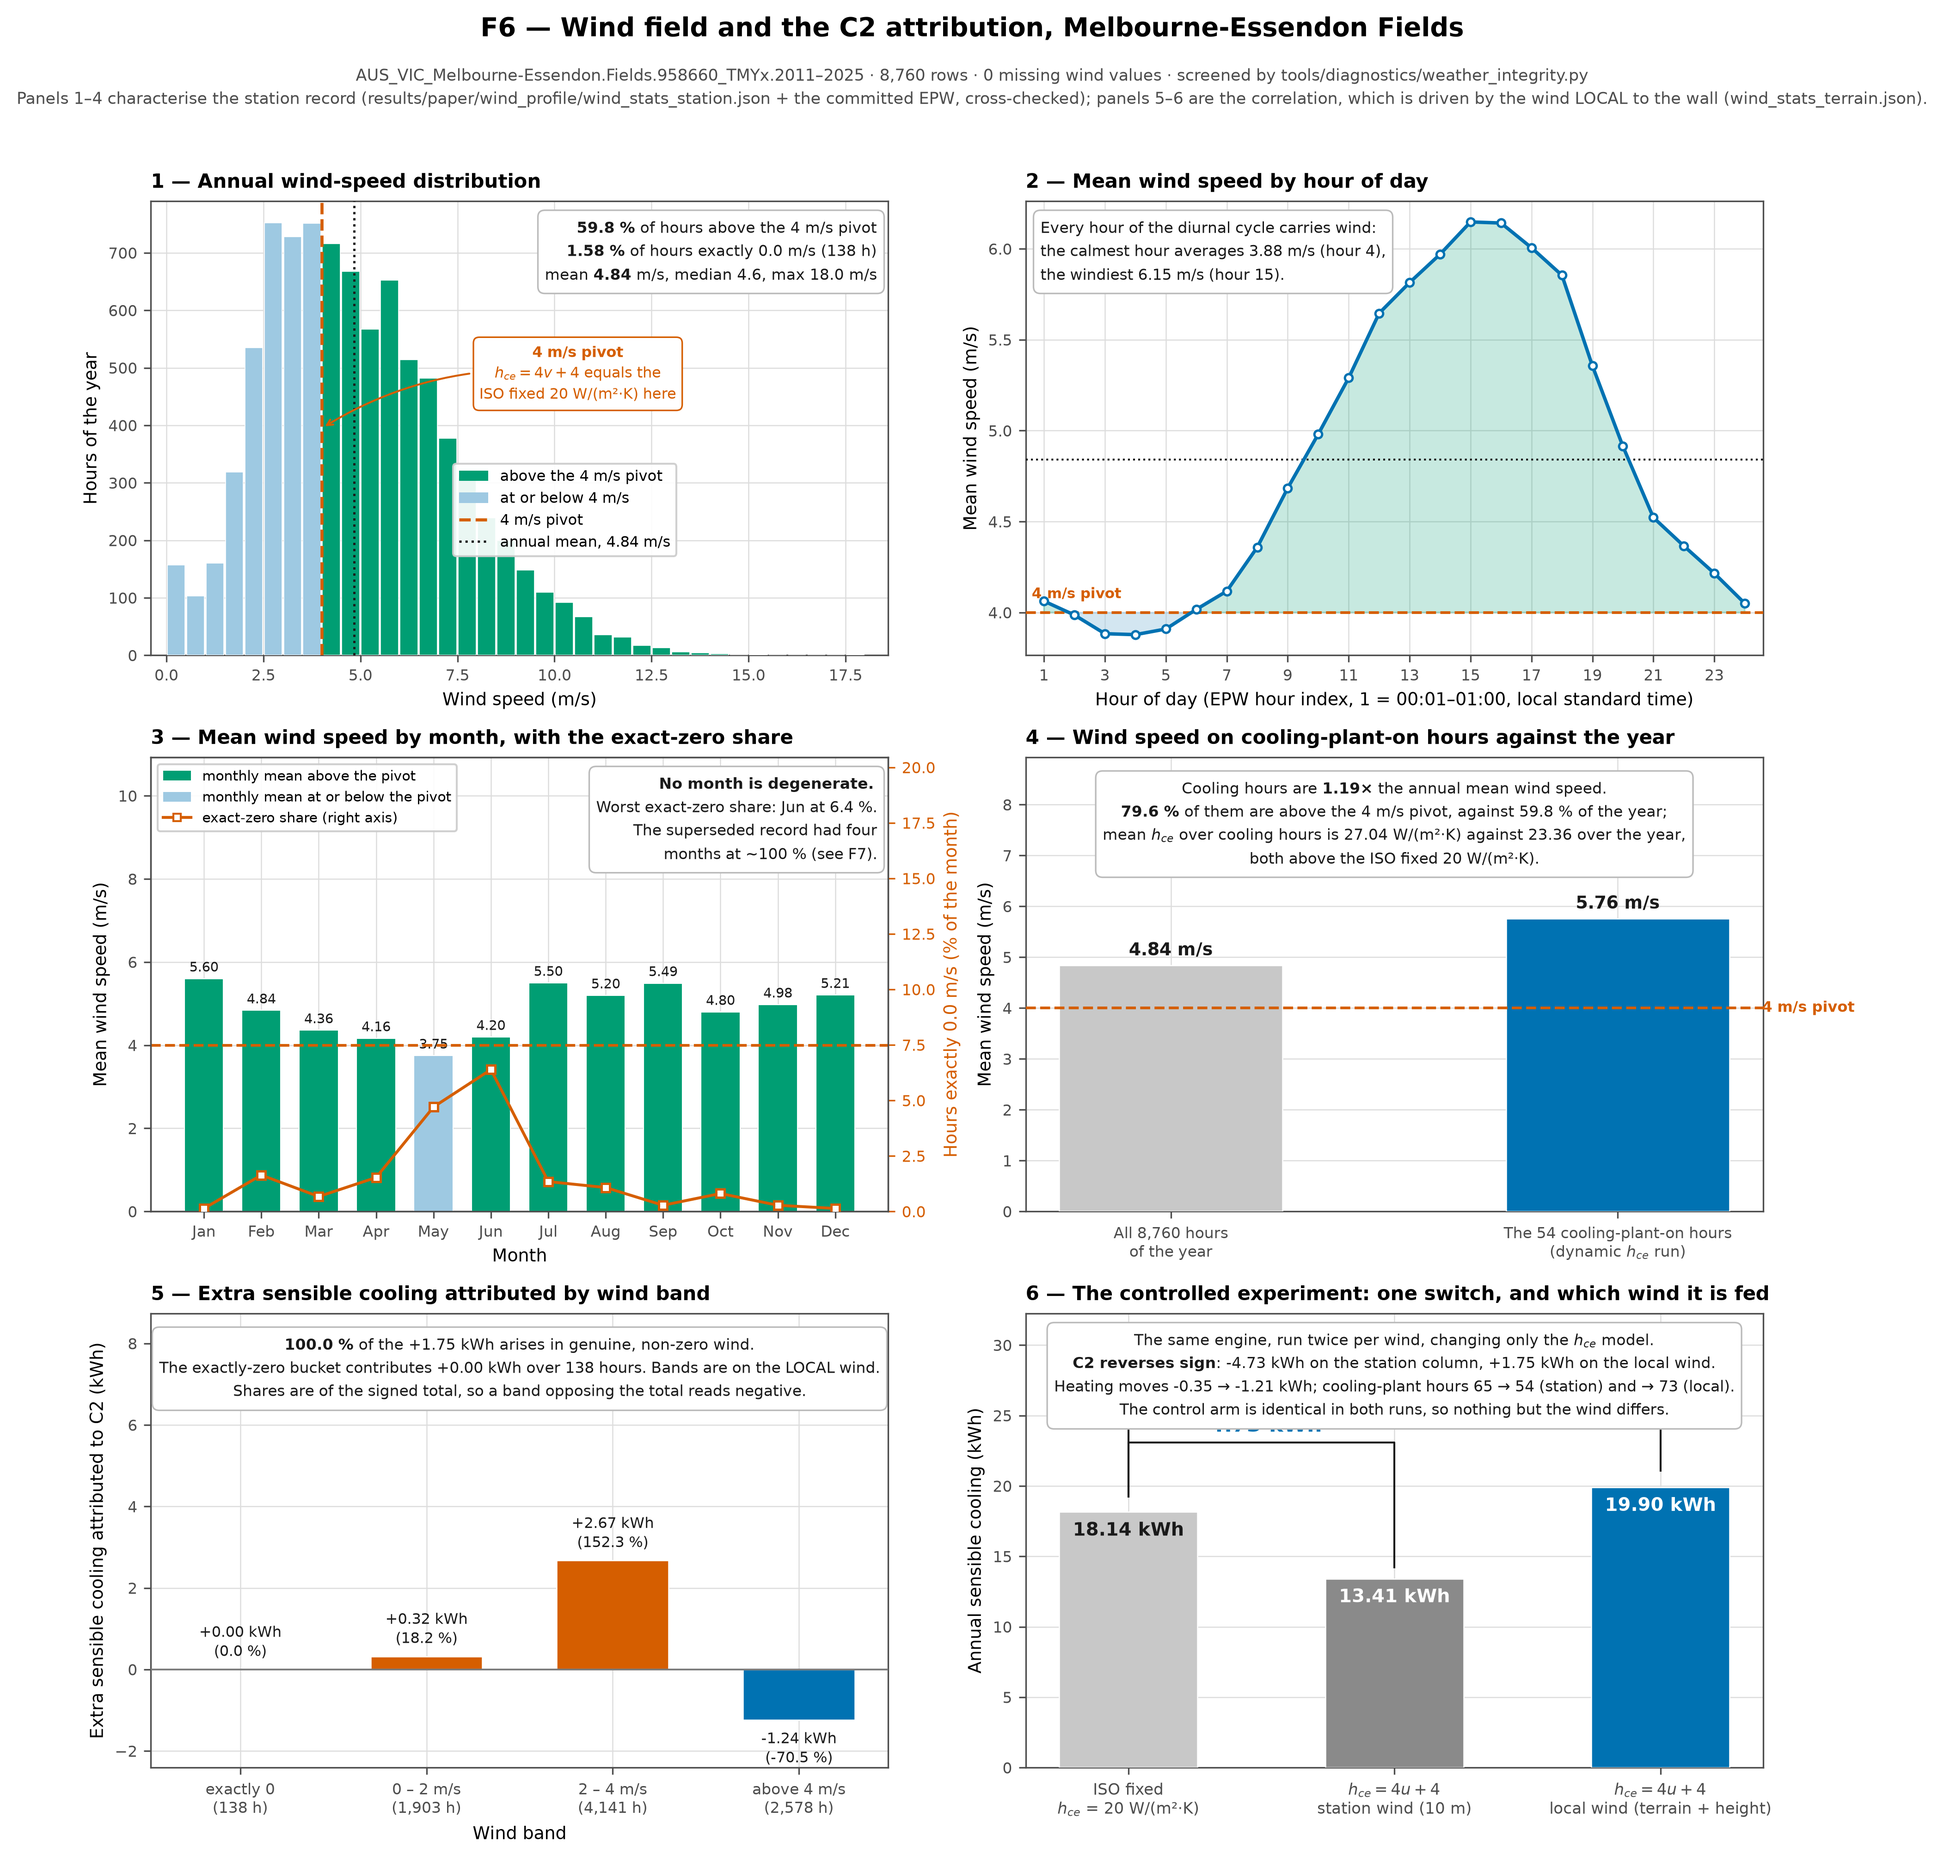
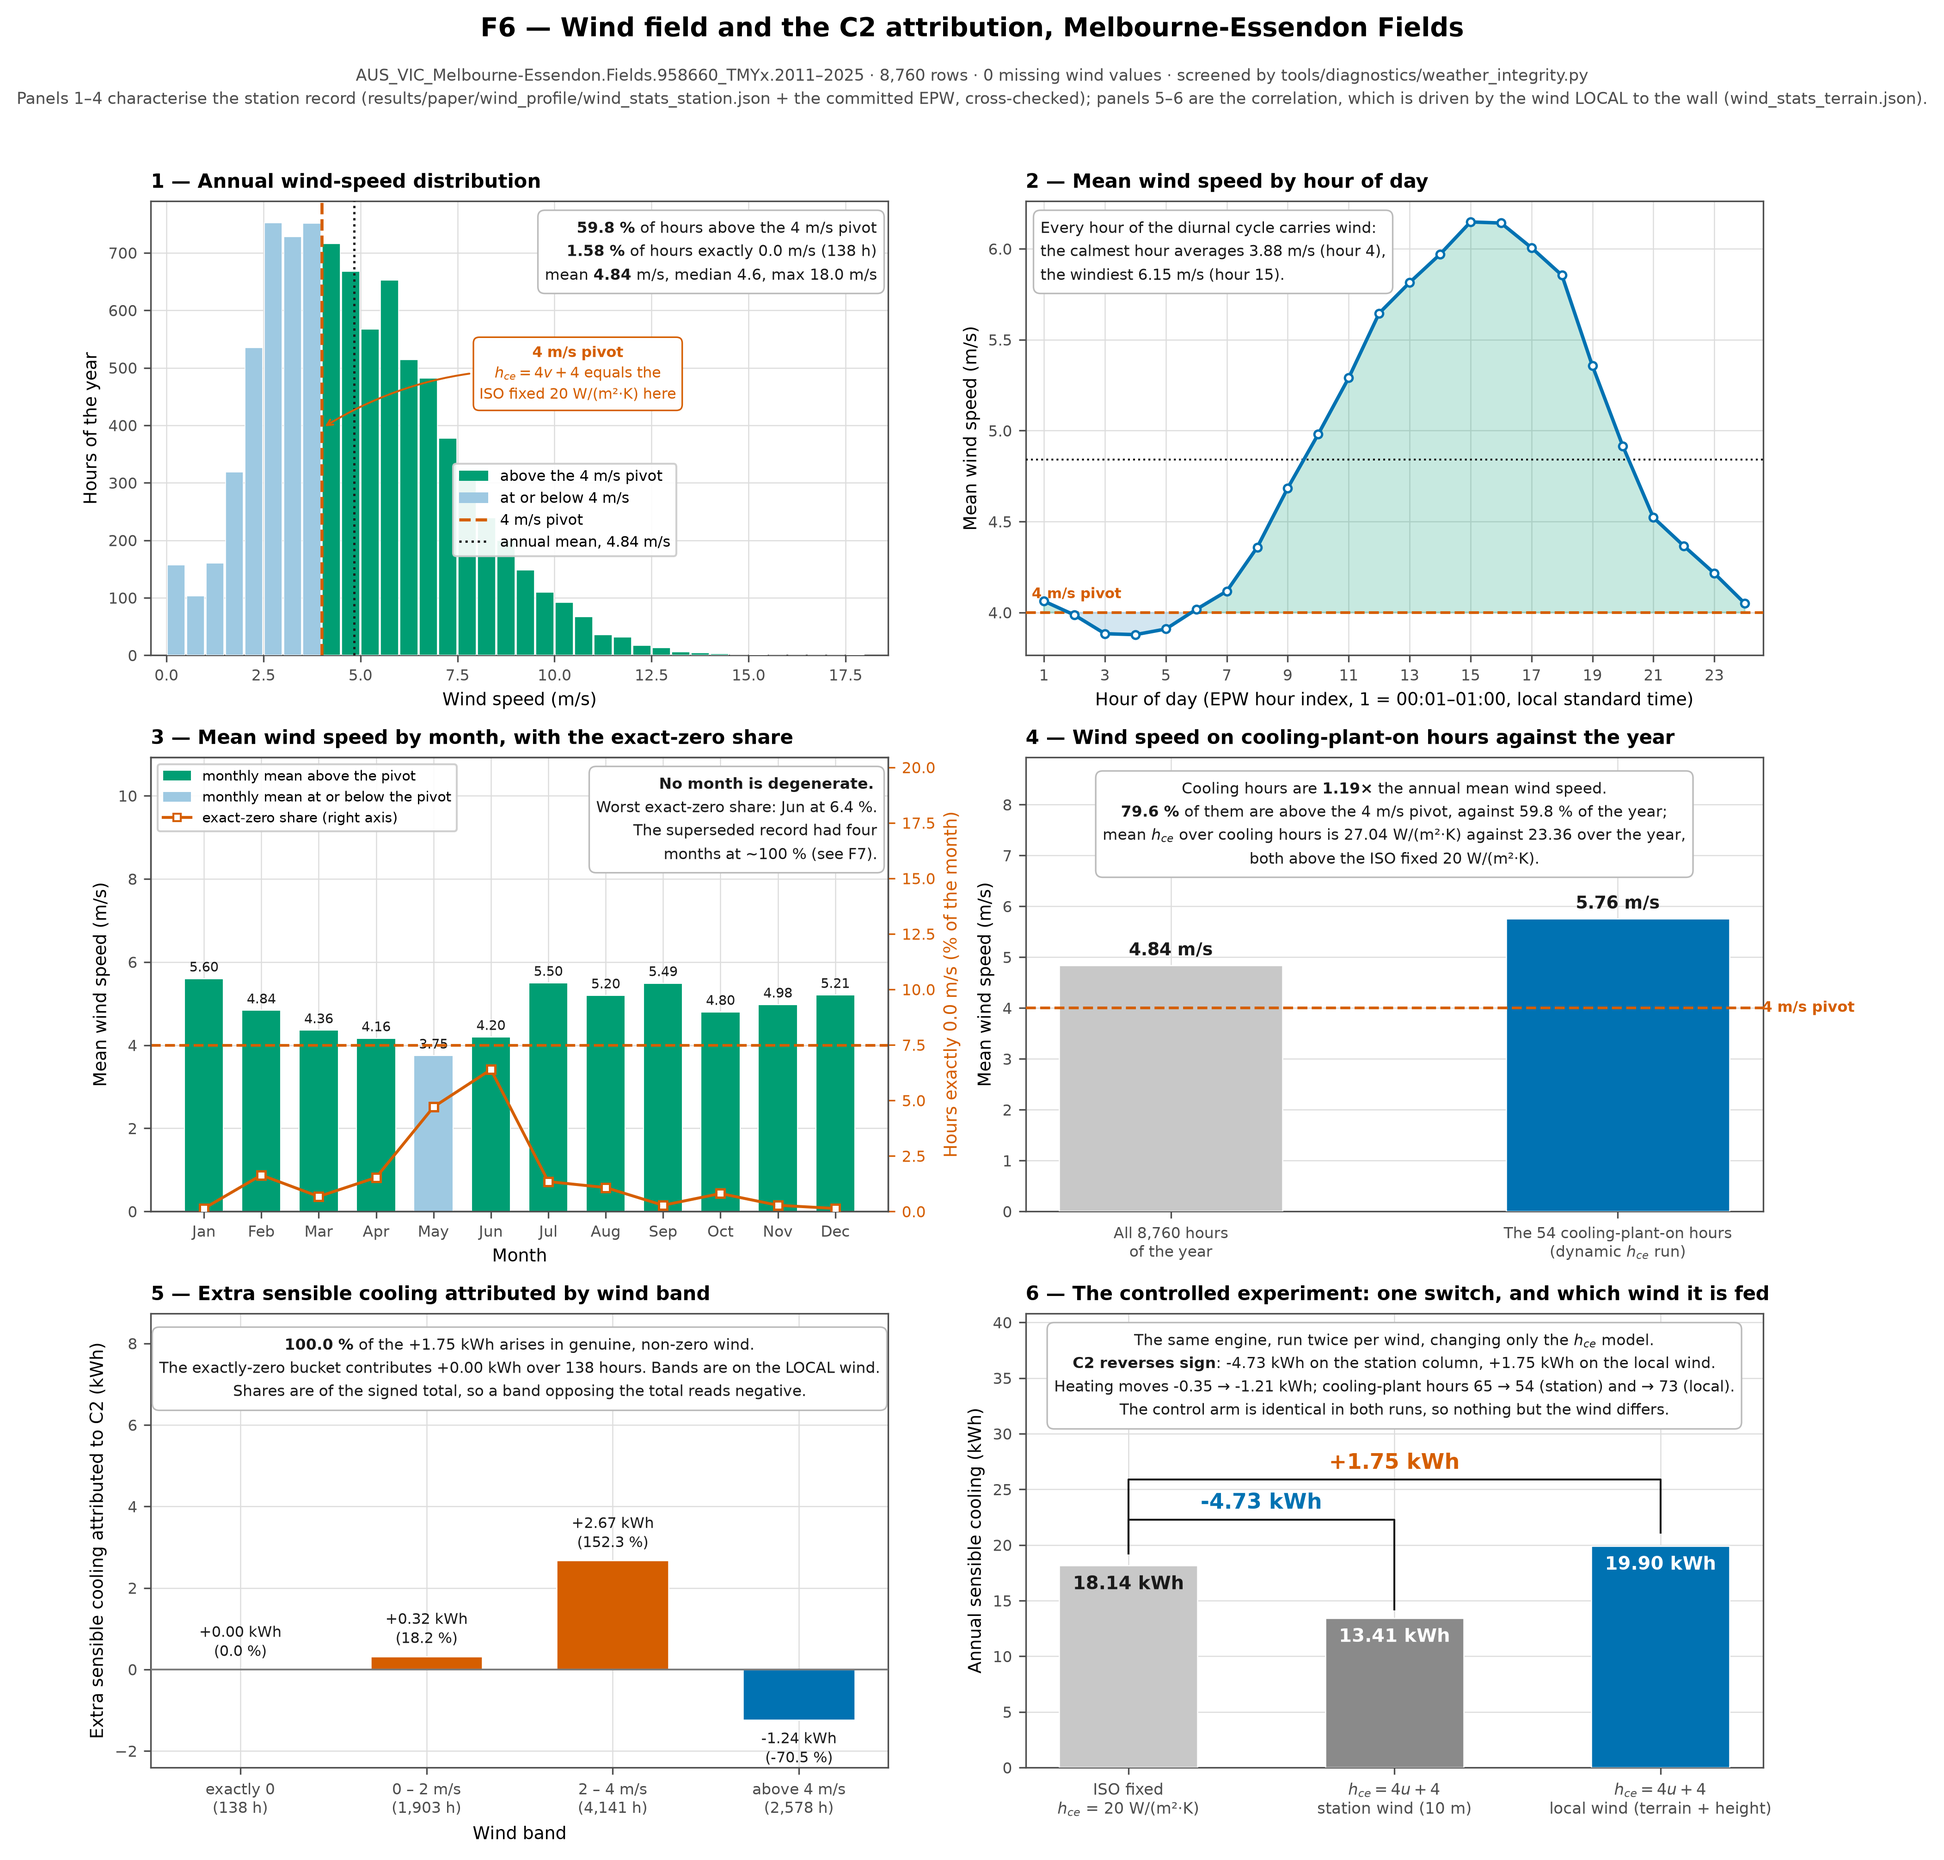
Regenerate the wind verdicts and F6 with the corrected prose
The verdicts pointed at results/au_canonical_essendon for the canonical
numbers, which has not been the canonical location since trajectory_v2. F6's
panel 6 had its upper bracket label running into the annotation box.

Claude-Session: https://claude.ai/code/session_01QtHfHixH27xJYdE7JdoCH9

Changed region(s): [[0.5296, 0.7768, 0.7477, 0.87], [0.81, 0.7768, 0.9034, 0.8389], [0.6854, 0.8389, 0.7788, 0.9011]]

diff --git a/tools/figures/f6_wind_field.py b/tools/figures/f6_wind_field.py
@@ -270,7 +270,9 @@ def build() -> dict:
                         "$h_{ce}=4u+4$\nlocal wind (terrain + height)"],
                        fontsize=8.2)
     p6.set_ylabel("Annual sensible cooling (kWh)")
-    p6.set_ylim(0, max(vals) * 1.62)
+    # Headroom for two stacked brackets AND the annotation box above them. At
+    # 1.62 the upper bracket label ran into the box.
+    p6.set_ylim(0, max(vals) * 2.05)
     p6.set_title("6 — The controlled experiment: one switch, and which wind it is fed",
                  loc="left", pad=7)
     for xi, v in zip(xs, vals):
@@ -279,7 +281,7 @@ def build() -> dict:
                     color=F.INK if xi == 0 else "white")
     # One bracket per arm, against the shared control.
     for xi, dc in ((1, delta_c_station), (2, delta_c)):
-        br = max(vals) * (1.16 if xi == 1 else 1.34)
+        br = max(vals) * (1.12 if xi == 1 else 1.30)
         p6.plot([0, 0, xi, xi],
                 [c_fix * 1.06, br, br, vals[xi] * 1.06], color=F.INK, lw=1.0)
         p6.annotate(f"{dc:+.2f} kWh", (xi / 2.0, br), xytext=(0, 3),

diff --git a/tools/diagnostics/wind_h_ce_diagnostic.py b/tools/diagnostics/wind_h_ce_diagnostic.py
@@ -863,7 +863,7 @@ def write_verdict(s: dict, out_md: Path, png: Path, weather_name: str = "",
         f"than four fabricated months.")
     add("")
     add("The canonical numbers themselves are in "
-        "`results/au_canonical_essendon/comparison.md`; this file does not restate "
+        "`results/paper/trajectory_v2/comparison.md`; this file does not restate "
         "them, so the two cannot drift apart.")
     add("")
     add("Generated by `tools/diagnostics/wind_h_ce_diagnostic.py`.")

diff --git a/results/paper/wind_profile/wind_verdict_terrain.md b/results/paper/wind_profile/wind_verdict_terrain.md
@@ -1,6 +1,6 @@
 # Wind-speed diagnostic on the clean weather file — does the distribution explain the h_ce cooling change?
 
-Weather: `AUS_VIC_Melbourne-Essendon.Fields.958660_TMYx.2011-2025.epw`. This **replaces the earlier verdict (c)**, which was reached on `AUS_VIC_Melbourne.RO.948680_TMYx.2011-2025.epw` and was a finding about that file's wind column rather than about the correlation.
+Weather: `AUS_VIC_Melbourne-Essendon.Fields.958660_TMYx.2011-2025.epw`. The h_ce correlation is driven by the **wind local to the wall** — the station column × 0.6574 for terrain and height.
 
 ## Verdict: **(b)**
 
@@ -66,17 +66,17 @@ The same engine, run twice, changing only the h_ce model (`external_convection_m
 
 Share is of the **signed** total, so a band moving the same way as the total reads positive and a band opposing it reads negative; the four shares sum to 100 %. That is why a share can exceed 100 % when another band pulls the other way.
 
-**100.0 % of the +1.75 kWh comes from hours with real, non-zero wind**, and the above-pivot band alone carries -1.24 kWh (-70.5 %) over 2,578 hours. The exactly-zero bucket — the entire content of the earlier finding — is now 138 hours and +0.00 kWh, 0.0 % of the total.
+**100.0 % of the +1.75 kWh comes from hours with real, non-zero wind**, and the above-pivot band alone carries -1.24 kWh (-70.5 %) over 2,578 hours. The exactly-zero bucket is now 138 hours and +0.00 kWh, 0.0 % of the total.
 
 ## The mechanism
 
-With 29.4 % of hours above the pivot the dynamic coefficient sits **above** the ISO constant for most of the year (mean 16.73 against 20 W/(m²·K)), so the exposed west wall is coupled *more* tightly to outdoor air than ISO 13789's frozen value assumes — the opposite of what the RO file produced, where h_ce collapsed to 4 W/(m²·K) across four fabricated dead-calm months.
+With only 29.4 % of hours above the pivot the dynamic coefficient sits **below** the ISO constant on the year (mean 16.73 against 20 W/(m²·K)), so the exposed west wall is coupled *less* tightly to outdoor air than ISO 13789's frozen value assumes. ISO 13789 §9.5 freezes 4 m/s, which is a met-station speed; a wall in suburban terrain three storeys up does not see it.
 
 Apt 305's only exposed surface is that west wall, solar absorptance 0.75. On a sunny afternoon it runs hotter than the air it faces, and a **weaker** external film sheds less of the absorbed solar back to the air: the sol-air driving temperature rises and more heat is conducted inward. With the local mean at 3.18 m/s the coefficient sits *below* the ISO constant for 70.6 % of the year, which is why the wind term raises sensible cooling by 1.75 kWh here — the opposite of what the same correlation does on the unadjusted station column.
 
 The plant state moves with it: the wind term changes the cooling-plant hour count by +8 (65 → 73).
 
-Of the hours the dynamic model adds to the cooling plant (11), the mean wind is 2.74 m/s and 0.0 % read exactly zero — against 96 % on the RO file, where the added hours *were* the fabricated calms.
+Of the hours the dynamic model adds to the cooling plant (11), the mean wind is 2.74 m/s and 0.0 % read exactly zero.
 
 ## Month by month
 
@@ -117,6 +117,6 @@ Nothing in the correlation moved. `simplecombined` still returns `4 + 4u` and st
 
 This is a diagnostic, not a correction: nothing in the engine was altered to produce it. What it establishes is that the C2 component of the canonical trajectory now rests on a wind record that is a wind record — 100.0 % of the C2 cooling effect comes from genuine wind bands, and the 0.0 % attributable to exactly-zero hours spans 138 hours (1.6 % of the year) rather than four fabricated months.
 
-The canonical numbers themselves are in `results/au_canonical_essendon/comparison.md`; this file does not restate them, so the two cannot drift apart.
+The canonical numbers themselves are in `results/paper/trajectory_v2/comparison.md`; this file does not restate them, so the two cannot drift apart.
 
 Generated by `tools/diagnostics/wind_h_ce_diagnostic.py`.

diff --git a/results/paper/wind_profile/wind_verdict_station.md b/results/paper/wind_profile/wind_verdict_station.md
@@ -1,6 +1,6 @@
 # Wind-speed diagnostic on the clean weather file — does the distribution explain the h_ce cooling change?
 
-Weather: `AUS_VIC_Melbourne-Essendon.Fields.958660_TMYx.2011-2025.epw`. This **replaces the earlier verdict (c)**, which was reached on `AUS_VIC_Melbourne.RO.948680_TMYx.2011-2025.epw` and was a finding about that file's wind column rather than about the correlation.
+Weather: `AUS_VIC_Melbourne-Essendon.Fields.958660_TMYx.2011-2025.epw`. The h_ce correlation is driven by the **raw 10 m station column**, unadjusted for terrain or height. This is the *before* state for the wind-profile question, produced on the current engine tree so that the contrast isolates the wind and nothing else.
 
 ## Verdict: **(a+b)**
 
@@ -64,17 +64,17 @@ The same engine, run twice, changing only the h_ce model (`external_convection_m
 
 Share is of the **signed** total, so a band moving the same way as the total reads positive and a band opposing it reads negative; the four shares sum to 100 %. That is why a share can exceed 100 % when another band pulls the other way.
 
-**100.0 % of the -4.73 kWh comes from hours with real, non-zero wind**, and the above-pivot band alone carries -5.08 kWh (107.5 %) over 5,255 hours. The exactly-zero bucket — the entire content of the earlier finding — is now 138 hours and +0.00 kWh, 0.0 % of the total.
+**100.0 % of the -4.73 kWh comes from hours with real, non-zero wind**, and the above-pivot band alone carries -5.08 kWh (107.5 %) over 5,255 hours. The exactly-zero bucket is now 138 hours and +0.00 kWh, 0.0 % of the total.
 
 ## The mechanism
 
-With 59.8 % of hours above the pivot the dynamic coefficient sits **above** the ISO constant for most of the year (mean 23.36 against 20 W/(m²·K)), so the exposed west wall is coupled *more* tightly to outdoor air than ISO 13789's frozen value assumes — the opposite of what the RO file produced, where h_ce collapsed to 4 W/(m²·K) across four fabricated dead-calm months.
+With 59.8 % of hours above the pivot the dynamic coefficient sits **above** the ISO constant on the year (mean 23.36 against 20 W/(m²·K)), so the exposed west wall is coupled *more* tightly to outdoor air than ISO 13789's frozen value assumes.
 
 Apt 305's only exposed surface is that west wall, solar absorptance 0.75. On a sunny afternoon it runs hotter than the air it faces, so a **stronger** external film sheds more of the absorbed solar back to the air, the sol-air driving temperature falls, and less heat is conducted inward. That is why the wind term lowers sensible cooling by 4.73 kWh here.
 
 The plant state moves with it: the wind term changes the cooling-plant hour count by -11 (65 → 54).
 
-Of the hours the dynamic model adds to the cooling plant (3), the mean wind is 3.23 m/s and 0.0 % read exactly zero — against 96 % on the RO file, where the added hours *were* the fabricated calms.
+Of the hours the dynamic model adds to the cooling plant (3), the mean wind is 3.23 m/s and 0.0 % read exactly zero.
 
 ## Month by month
 
@@ -97,6 +97,6 @@ Of the hours the dynamic model adds to the cooling plant (3), the mean wind is 3
 
 This is a diagnostic, not a correction: nothing in the engine was altered to produce it. What it establishes is that the C2 component of the canonical trajectory now rests on a wind record that is a wind record — 100.0 % of the C2 cooling effect comes from genuine wind bands, and the 0.0 % attributable to exactly-zero hours spans 138 hours (1.6 % of the year) rather than four fabricated months.
 
-The canonical numbers themselves are in `results/au_canonical_essendon/comparison.md`; this file does not restate them, so the two cannot drift apart.
+The canonical numbers themselves are in `results/paper/trajectory_v2/comparison.md`; this file does not restate them, so the two cannot drift apart.
 
 Generated by `tools/diagnostics/wind_h_ce_diagnostic.py`.
